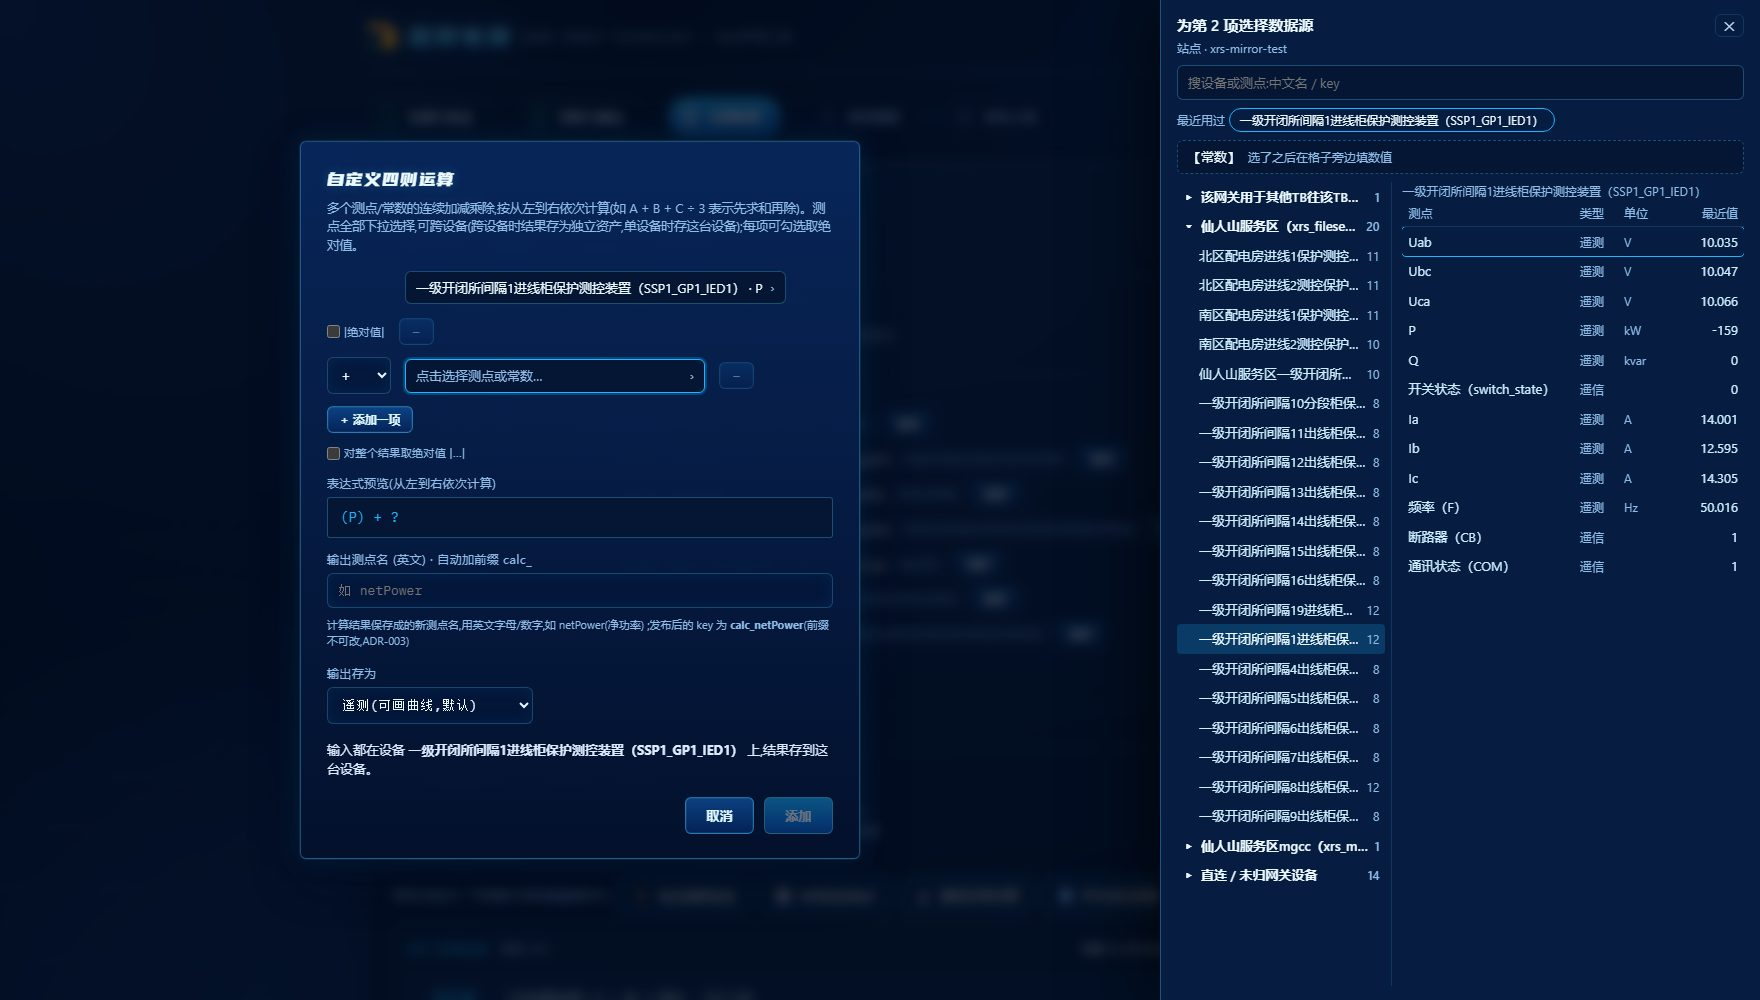
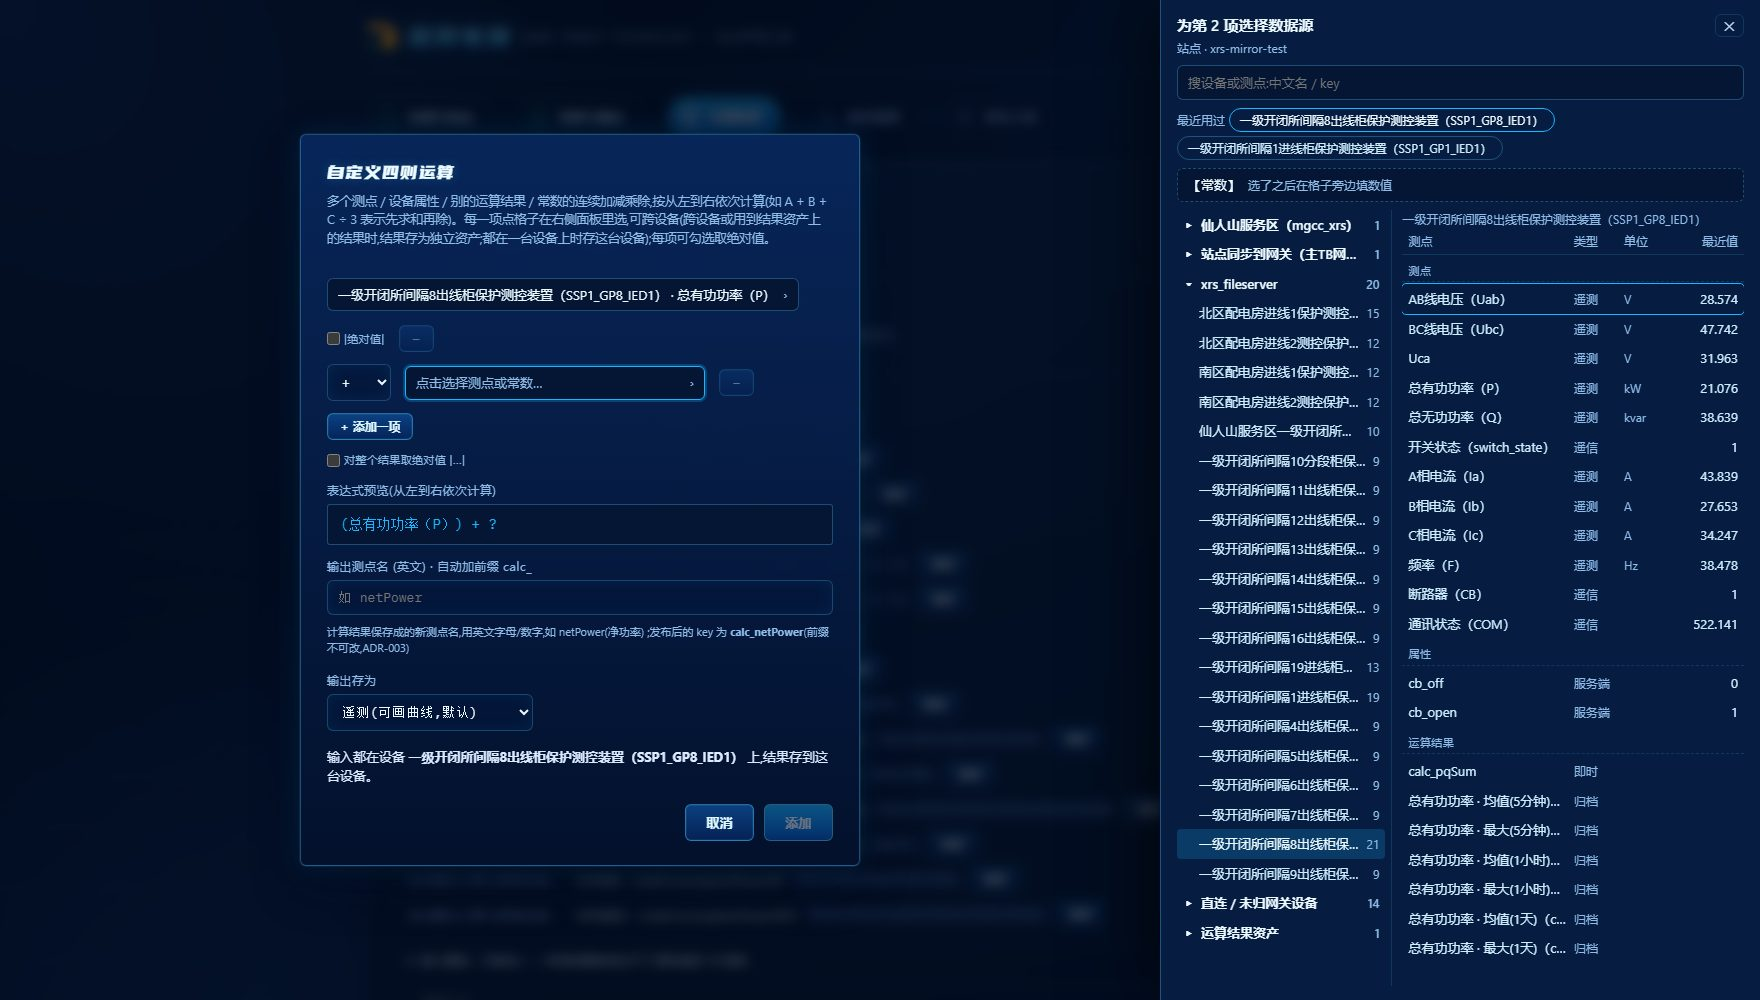
docs: 操作说明补「拿设备属性、别的运算结果来算」,03b 截图重拍
第 3 步数据源面板一节写明右栏「测点 / 属性 / 运算结果」三段、结果资产那一组、结果存哪、
不能互相引用;常见报错补三条(没有属性段 / 绕成环 / 用了属性的运算没数)。
03b 在镜像 111 上重拍(xrs-mirror-test,未保存、未发布)。

diff --git a/docs/操作说明-工程人员.md b/docs/操作说明-工程人员.md
@@ -82,6 +82,16 @@
 - **少点几下**:「最近用过」列着刚用过的几台设备(第 3 步、第 4 步、接线图共用,按站点记在本机);
   四则运算的下一项、收益的放电量会自动停在上一项的设备上。
 - 四则运算里要用常数:点面板顶上的「【常数】」,再在格子旁边填数值。
+- **拿设备参数、别的运算结果来算**(四则运算、两项加 / 减这类即时计算):右栏分成三段——
+  - **测点**:第 2 步认领的遥测 / 遥信;
+  - **属性**:这台设备在平台上的参数(如额定容量、整定值),点开设备时现读,标着是服务端 / 共享 / 客户端属性和当前值;
+    只列数字型的,在线状态这类平台自己维护的不列。例:负载率 = `P ÷ 额定容量(属性) × 100`;
+  - **运算结果**:本站已经配好的其它运算的结果(哪怕还没发布),比如先算出 `calc_pqSum` 再拿它乘系数。
+    左栏最后一组「**运算结果资产**」里是全站汇聚、跨设备运算、收益的结果,如「全站合计有功」。
+  - 用到结果资产上的结果,或输入跨了设备,这条的结果会存到「结果资产」(弹窗下面写着存哪);都在一台设备上就存这台设备。
+  - 运算之间不能互相用(A 用 B、B 又用 A):点「添加」时会拦下并说明是哪几条绕成了圈。
+  - 告警、差值 / 积分、周期统计、全站汇聚的测点也能选设备上的运算结果(如对 `calc_pqSum` 设越限告警、对各台的 `calc_pqSum` 求全站和);
+    这几种不能用属性。设备模板里同样能选,列的是同名的结果 / 属性和覆盖台数。
 - 设备模板、全站汇聚这种「各设备的同名测点」:面板不分设备,直接列测点和覆盖台数(如「8/10 台」)。
 - 周期统计里,在测点格子选了别的设备上的测点,上面的「设备」会跟着换成那台。
 - **要选多个的**(周期统计 / 多级归档的「统计测点」、开关变位告警的开关测点):点行打勾,
@@ -322,6 +332,9 @@
 | 第 2 步「尚未发现设备」 | 没连上,或平台上这个账号看不到设备 | 回第 1 步重新连接 |
 | 数据源面板里找不到某台设备 | 第 3 步:这台设备没在第 2 步认领;第 4 步:它不属于这个站点 | 第 3 步回第 2 步认领;第 4 步勾「全部实体」 |
 | 数据源面板「读不到这台设备的测点」 | 平台上读这台设备失败(网络 / 权限) | 稍后重开面板;还不行检查账号权限 |
+| 数据源面板里没有「属性」这一段 | 这台设备在平台上没有数字型的属性(文字型、在线状态这类不列) | 先在平台上给设备加上参数属性,再重开面板 |
+| 点「添加」提示「运算之间绕成了环」 | 两条(或几条)运算互相拿对方的结果当输入 | 按提示里的顺序改掉其中一条的输入 |
+| 用了属性的运算发布后一直没数 | 平台上某台设备没有这个属性(设备模板按测点挑设备,不看属性) | 给缺的设备补上属性;或把模板的选择器收窄 |
 | 第 4 步右栏红色条目 | 页面配置有错,发布会被拦下 | 点条目会跳到出错的格子;通常是组件没绑数据、测点名不存在 |
 | 「N 个绑定在当前账号下不可见」 | 预览用的客户账号看不到这些设备 / 资产 | 让管理员把它们分配给该客户;或换绑 |
 | 接线图上开关是灰色 | 通信异常:设备在线灯离线,或开关测点从没收到过值 | 看设备是否在线;核对「绑定」页签里的开关状态测点;没有位置信号的开关设「没数据时 → 按合闸画」 |
